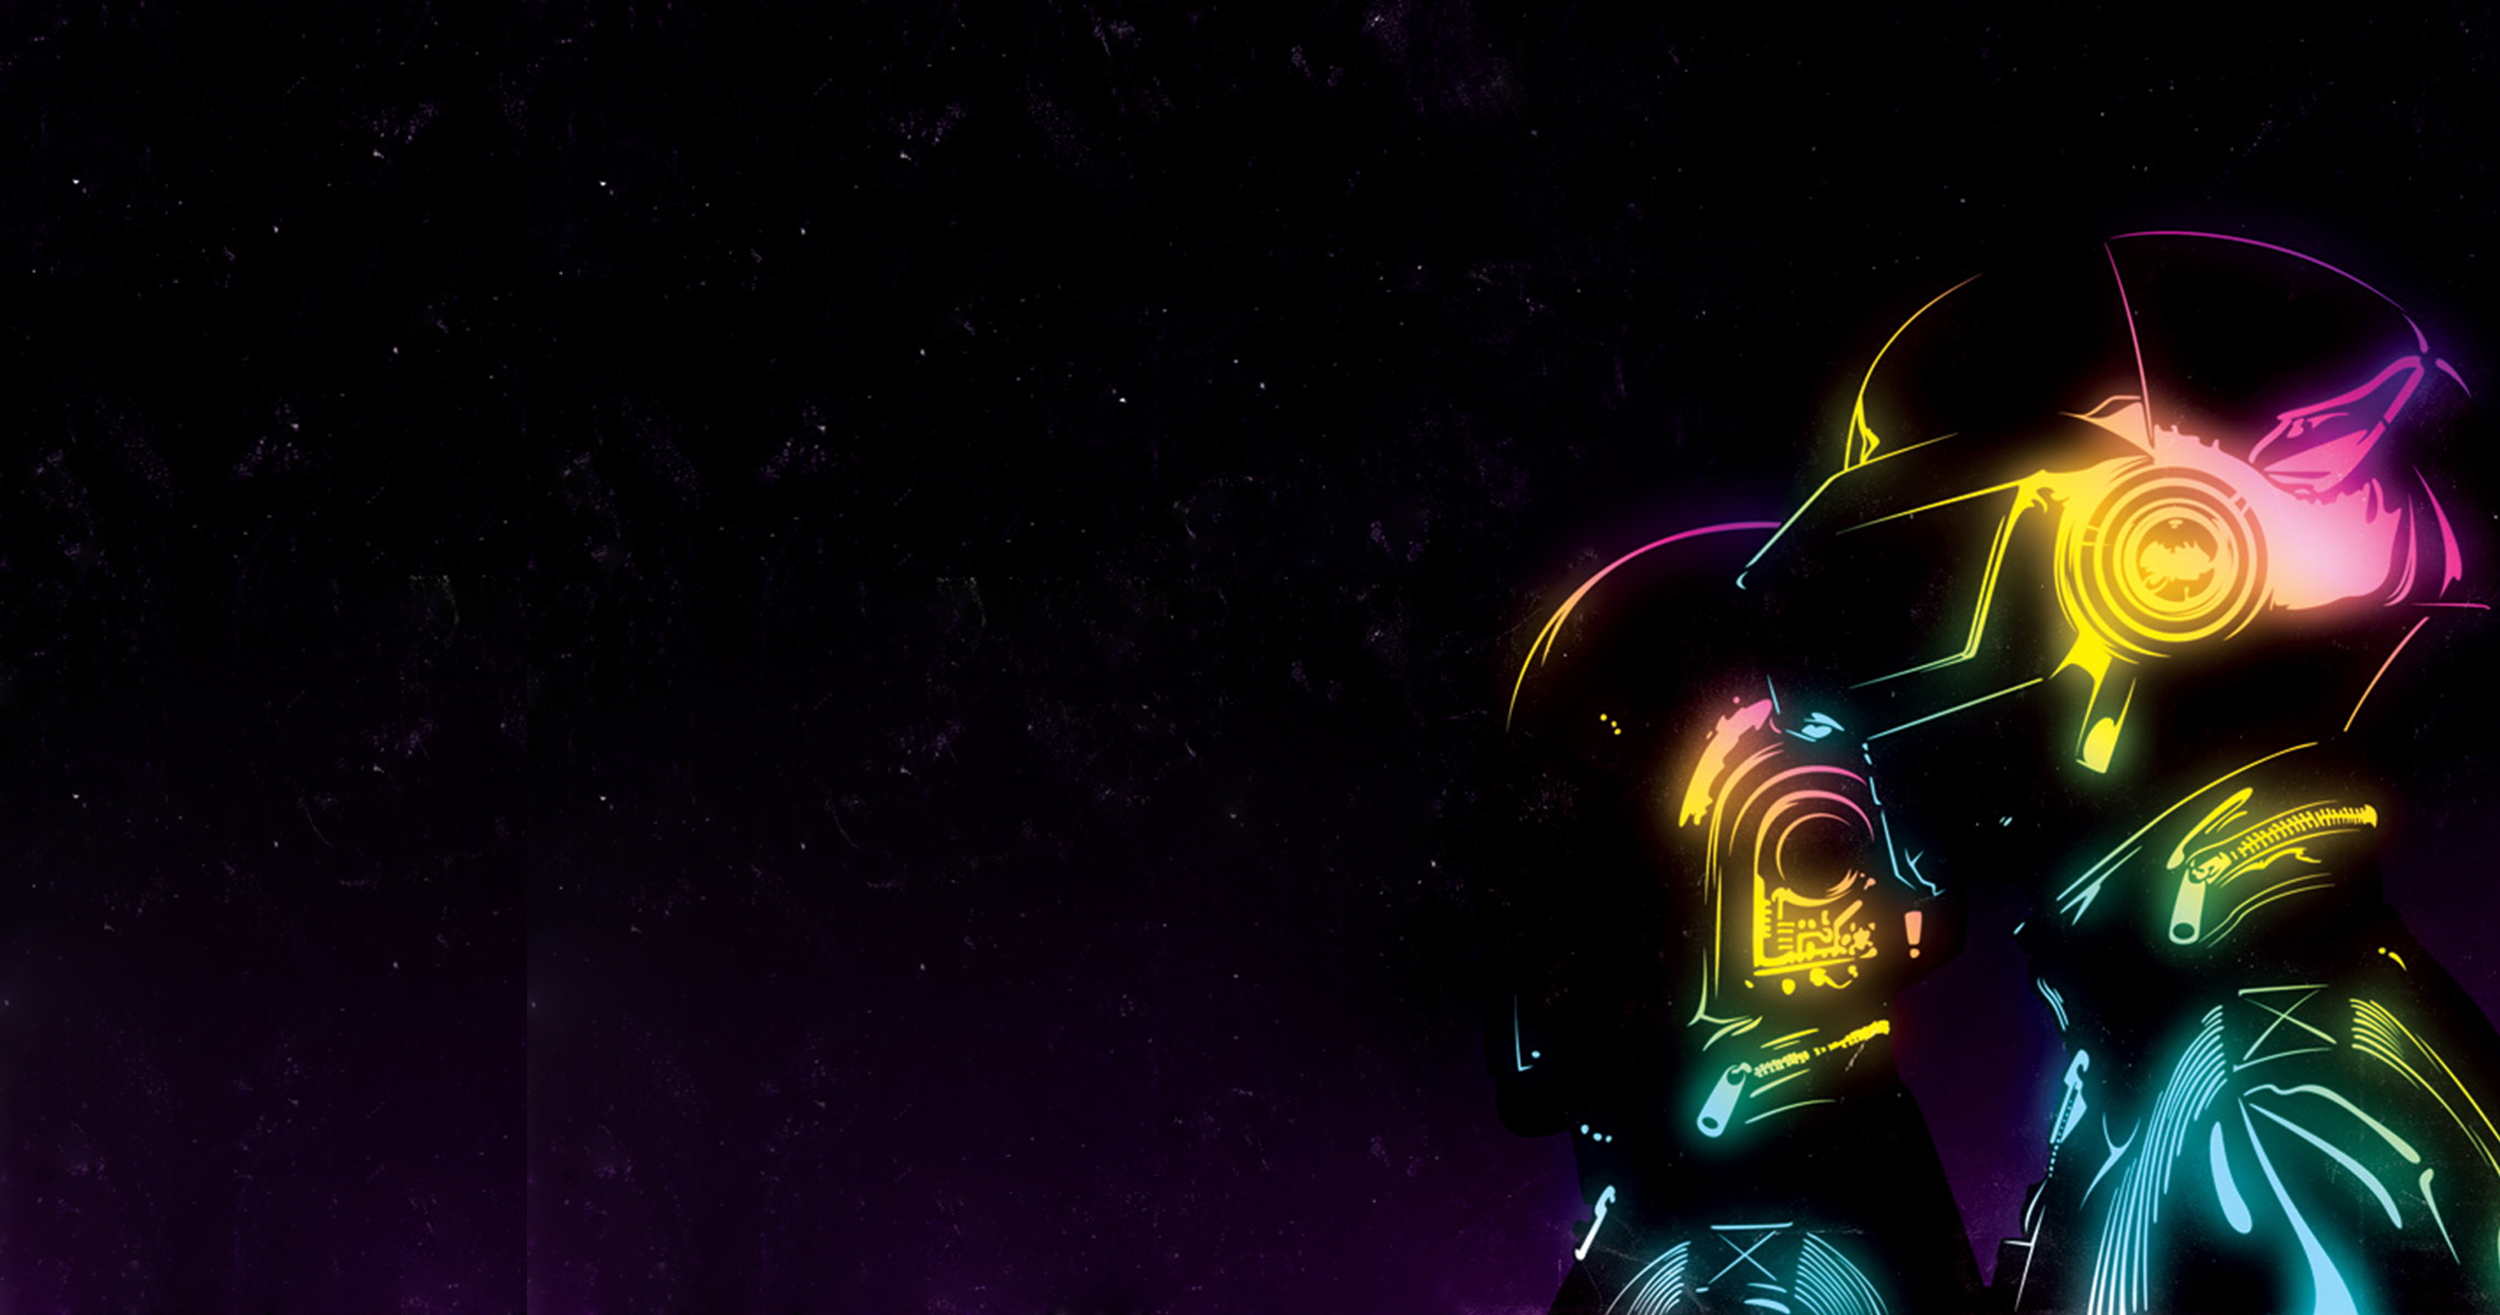
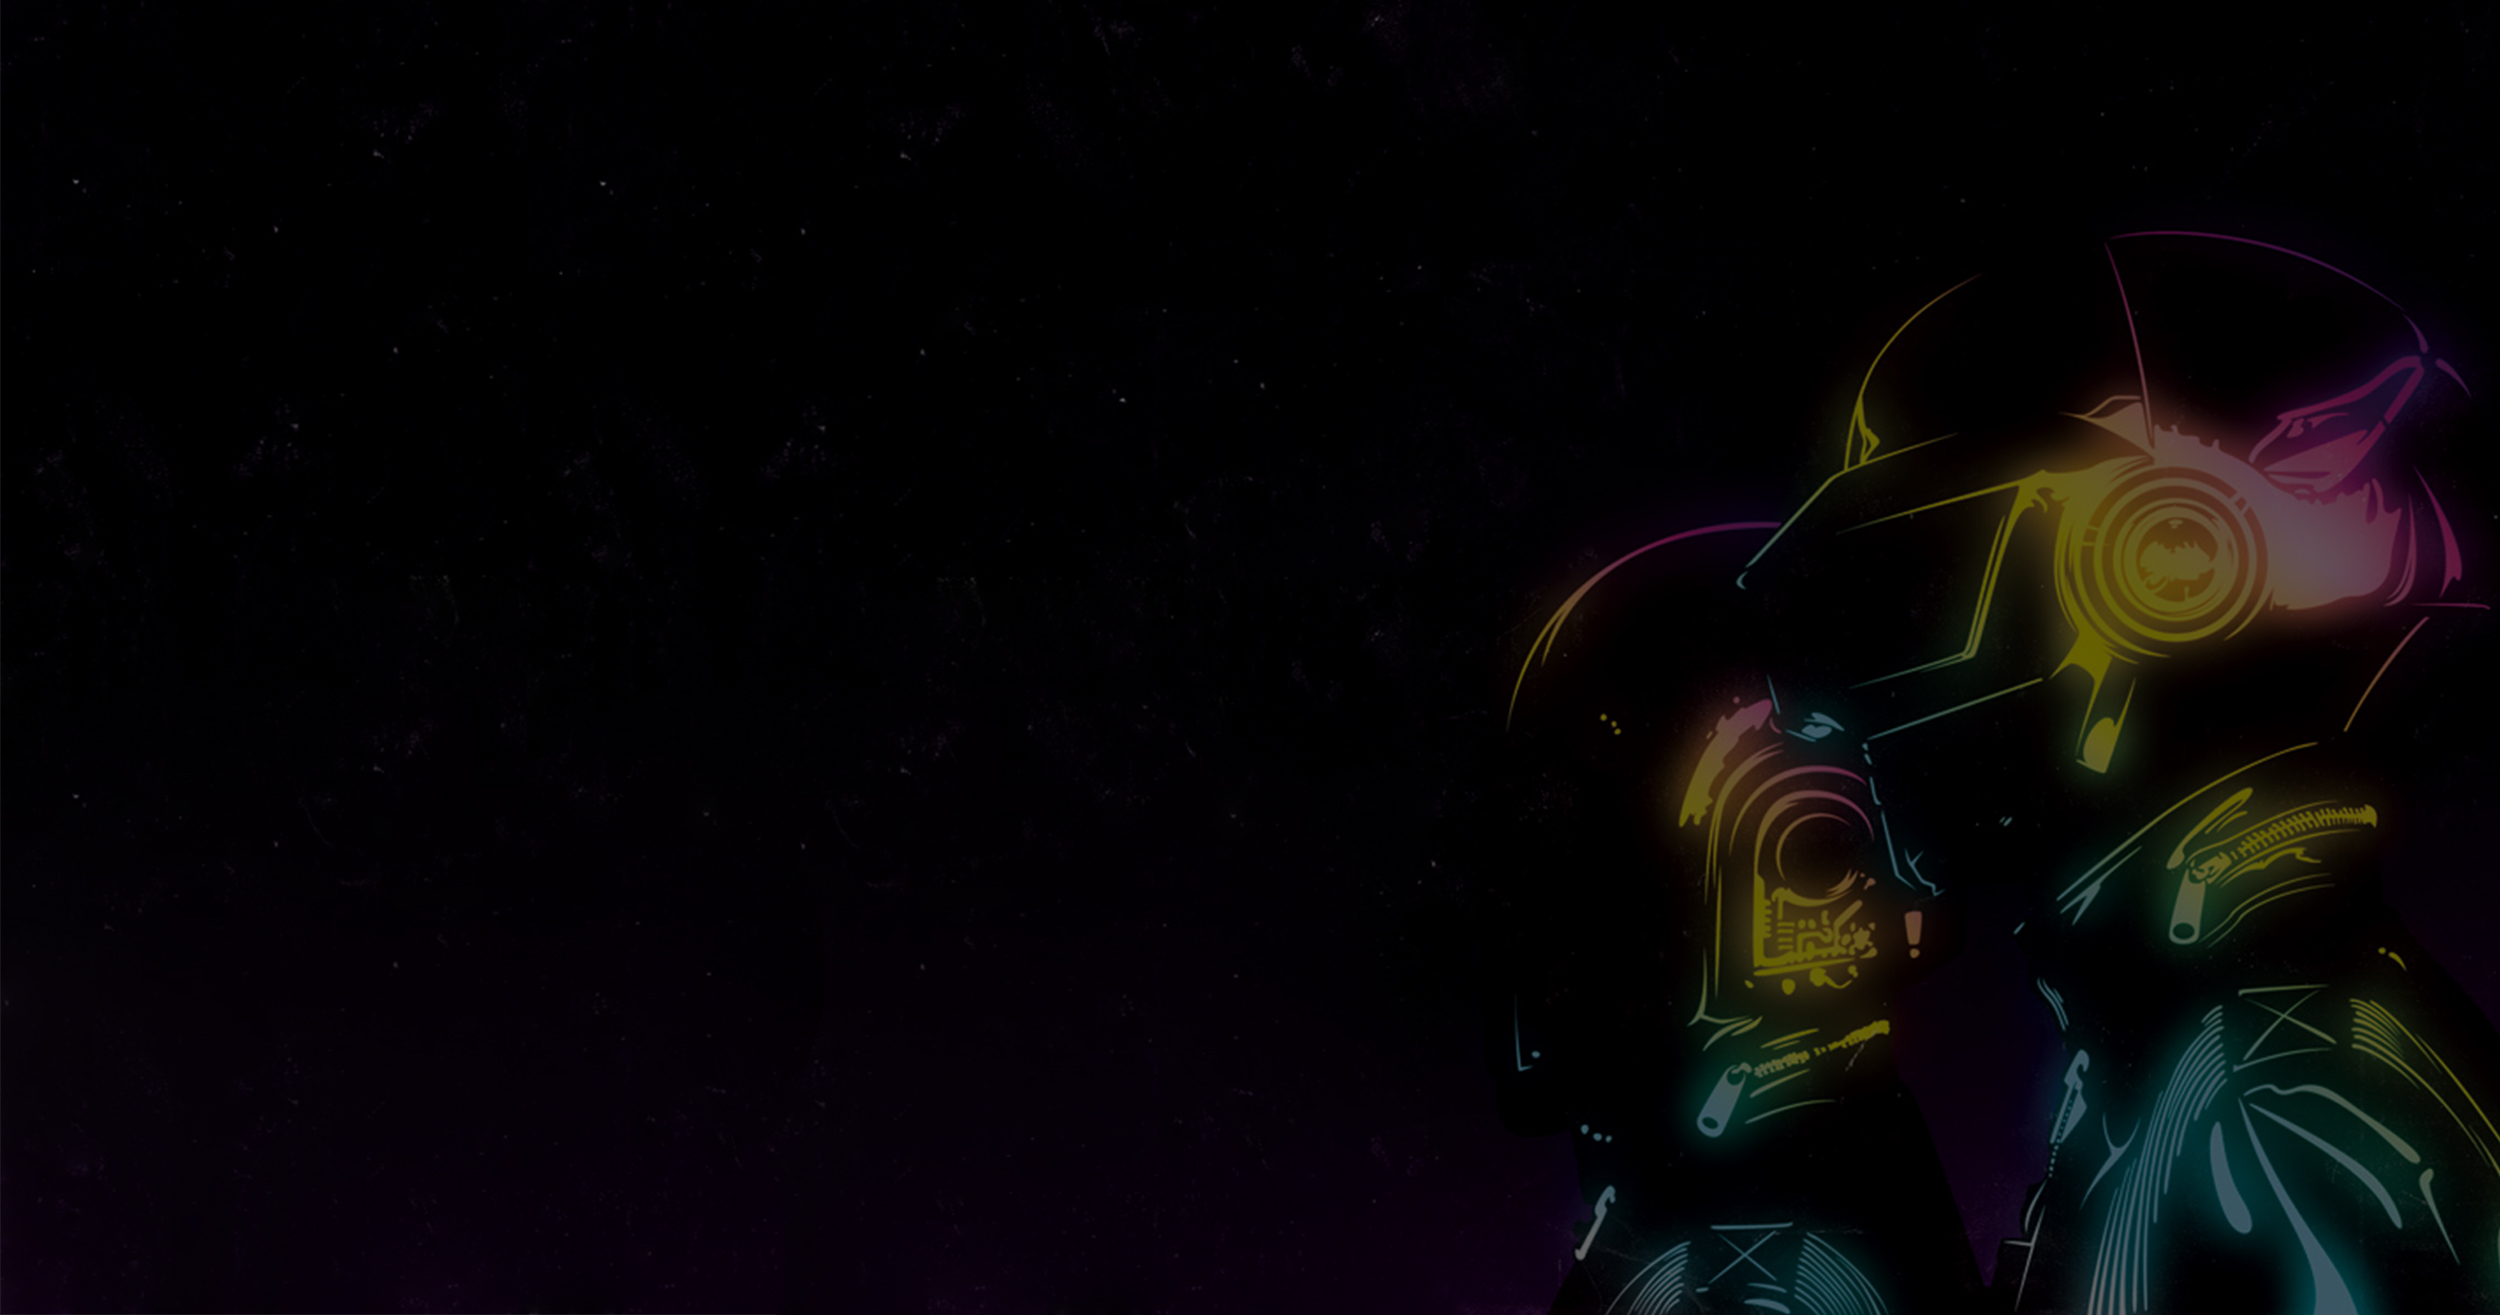
Changes to CSS and Images
Enhancing the UX

diff --git a/Wk2/Yanes_Jesus_Prototype/css/app.css b/Wk2/Yanes_Jesus_Prototype/css/app.css
@@ -143,6 +143,9 @@ img.right {
 /* Homepage */
 .home {
     background: #000000 url('../images/bg.jpg') repeat-x;
+    -webkit-background-size: cover;
+    -moz-background-size: cover;
+    background-size: cover;
 }
 .home body {
     background: none;
@@ -187,7 +190,7 @@ img.right {
     display: none;
 }
 #cta .panel {
-    background: rgba(242, 218, 196, 0.15);
+    background: rgba(242, 218, 196, 0.10);
     border: 8px solid rgba(242, 218, 196, 0.15);
     box-shadow: 0px 10px 20px -2px #000000;
     -webkit-box-shadow: 0px 10px 20px -2px #000000;
@@ -211,7 +214,7 @@ img.right {
 }
 .reveal-modal {
     border: 8px solid rgba(0, 0, 0, 0.25);
-    background: rgba(145, 146, 123, 0.95);
+    background: rgba(145, 146, 123, 0.85);
 }
 .reveal-modal h3 {
     font-family:'Archivo Black', sans-serif;
@@ -262,6 +265,7 @@ img.right {
 }
 .about p {
     color: #91927B;
+    font-weight: bold;
 }
 .about #sidebar {
     margin-top: 1.875em;
@@ -302,6 +306,7 @@ img.right {
 }
 #artist a {
     color: #486466;
+    font-weight: bold;
 }
 #artist a:hover {
     text-decoration: underline;
@@ -319,6 +324,7 @@ img.right {
 }
 .artist p {
     color: #91927B;
+    font-weight: bold;
 }
 .artist .section-container.auto>section.active>.title a, 
 .artist .section-container.auto>.section.active>.title a,
@@ -356,7 +362,7 @@ img.right {
 
 /* Concerts */
 .concerts {
-    background: url('../images/bg-concerts.jpg') no-repeat center center fixed;
+    background: url('../images/bg-artists.jpg') no-repeat center center fixed;
     -webkit-background-size: cover;
     -moz-background-size: cover;
     background-size: cover;
@@ -366,7 +372,7 @@ img.right {
 }
 .concerts #wrapper {
     padding: 1em;
-    background: rgba(242, 218, 196, 0.8);
+    background: rgba(242, 218, 196, 0.15);
     border-top: 8px solid rgba(0, 0, 0, 0.25);
     border-bottom: 8px solid rgba(0, 0, 0, 0.25);
 }
@@ -381,14 +387,15 @@ img.right {
 }
 .concerts hr {
     visibility: visible;
-    border-color: #222222;
+    border-color: rgba(242, 218, 196, 0.15);
 }
 .concerts h2 {
     font-family:'Archivo Black', sans-serif;
     color: #7B3F37;
 }
 .concerts p {
-    color: rgba(0, 0, 0, 0.75);
+    color: #91927B;
+    font-weight: bold;
 }
 .concerts dt {
     font-family:'Archivo Black', sans-serif;
@@ -396,8 +403,8 @@ img.right {
     padding-top: 10px
 }
 .concerts dd {
-    color: rgba(0, 0, 0, 0.75);
-    font-weight: bold;
+    color: #d3d3ca;
+    font-style: italic;
 }
 .concerts #sidebar {
     margin-top: 1.875em;
@@ -430,10 +437,10 @@ img.right {
     background: none;
 }
 .directions #wrapper {
-    padding: 1em;
-    background: rgba(242, 218, 196, 0.8);
-    border-top: 8px solid rgba(0, 0, 0, 0.25);
-    border-bottom: 8px solid rgba(0, 0, 0, 0.25);
+      padding: 1em;
+      background: rgba(242, 218, 196, 0.15);
+      border-top: 8px solid rgba(0, 0, 0, 0.25);
+      border-bottom: 8px solid rgba(0, 0, 0, 0.25);
 }
 @media only screen and (min-width: 768px) {
     .directions #wrapper {
@@ -446,6 +453,7 @@ img.right {
 }
 .directions a {
     color: #486466;
+    font-weight: bold;
 }
 .directions a:hover {
     text-decoration: underline;
@@ -455,7 +463,8 @@ img.right {
     color: #7B3F37;
 }
 .directions p {
-    color: #7B3F37;
+    color: #91927B;
+    font-weight: bold;
 }
 .directions #sidebar {
     margin-top: 1.875em;
@@ -471,7 +480,8 @@ img.right {
 
 /* News */
 .news {
-    background: #000000 url('../images/bg.jpg') repeat-x;
+  background: url('../images/bg-news.jpg') no-repeat center center fixed; 
+  -webkit-background-size: cover; -moz-background-size: cover; background-size: cover;
 }
 .news body {
     background: none;
@@ -487,8 +497,7 @@ img.right {
         margin-top: 1.875em;
         margin-bottom: 1.875em;
         border: 8px solid rgba(242, 218, 196, 0.15);
-        box-shadow: 0px 10px 20px -2px #000000;
-        -webkit-box-shadow: 0px 10px 20px -2px #000000;
+        box-shadow: 0px 10px 20px -2px #333333; -webkit-box-shadow: 0px 10px 20px -2px #333333;
     }
 }
 .news hr {
@@ -506,10 +515,12 @@ img.right {
     text-shadow: 2px 2px 0px rgba(0, 0, 0, 0.6);
 }
 .news h6 {
-    color: #91927B;
+    color: #d3d3ca;
+    font-style: italic;
 }
 .news p {
     color: #91927B;
+    font-weight: bold;
 }
 .news #sidebar {
     margin-top: 1.875em;
@@ -528,7 +539,7 @@ img.right {
   }
     .contact #wrapper {
       padding: 1em;
-      background: rgba(242, 218, 196, 0.8);
+      background: rgba(242, 218, 196, 0.15);
       border-top: 8px solid rgba(0, 0, 0, 0.25);
       border-bottom: 8px solid rgba(0, 0, 0, 0.25);
     }
@@ -541,6 +552,7 @@ img.right {
     }
     .contact a {
       color: #486466;
+      font-weight: bold;
     }
       .contact a:hover {
         text-decoration: underline;
@@ -550,7 +562,8 @@ img.right {
       color: #7B3F37;
     }
     .contact p {
-      color: #7B3F37;
+      color: #91927B;
+      font-weight: bold;
     }
     .contact .section-container.auto>section.active>.title a, 
     .contact .section-container.auto>.section.active>.title a,
@@ -562,6 +575,7 @@ img.right {
     }
     .contact label {
       color: #7B3F37;
+      font-weight: bold;
     }
     #contact button, #contact .button {
       background-color: #91927B;

diff --git a/Wk2/Yanes_Jesus_Prototype/about.html b/Wk2/Yanes_Jesus_Prototype/about.html
@@ -93,7 +93,7 @@
                         </ul>
                     </section>
                     <section class="small-12 large-5 columns">
-                        <p class="right">Copyright &copy; 2014 Wilson's Barbeque</p>
+                        <p class="right">Copyright &copy; 2014 Lotus Music</p>
                     </section>
                 </div>
             </footer>
